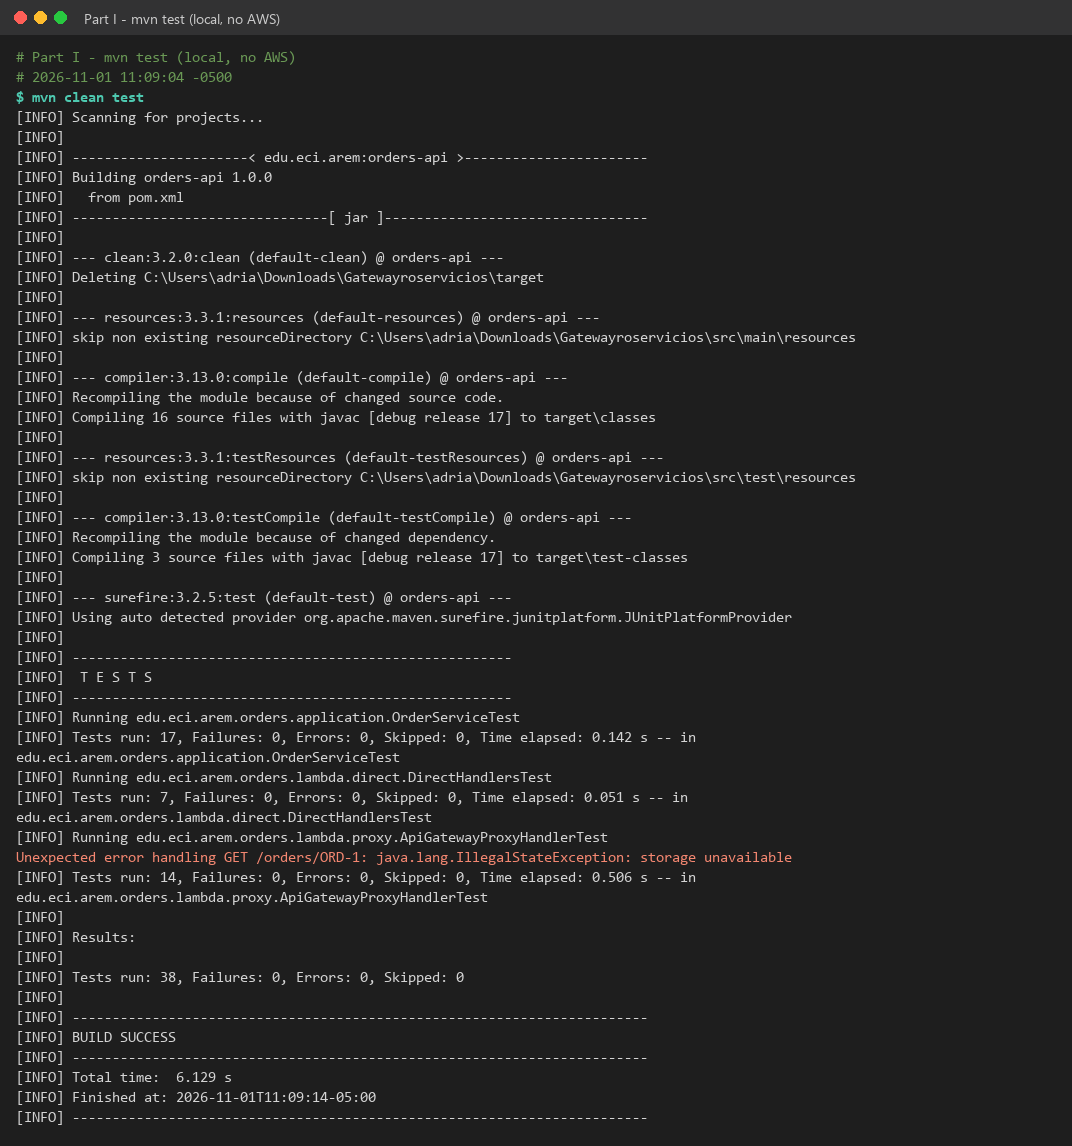
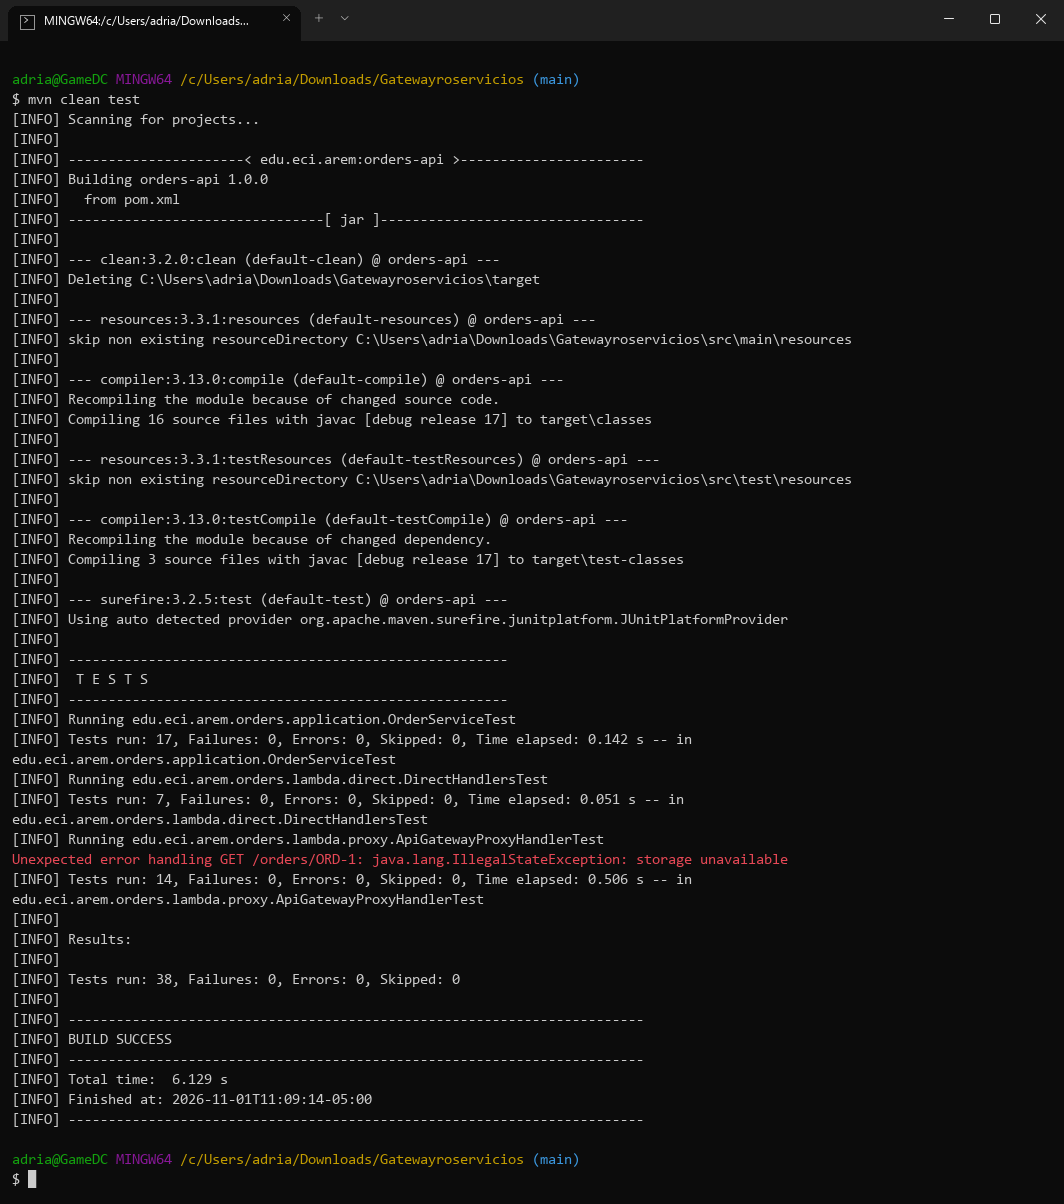
Render evidence screenshots in Windows Terminal style

diff --git a/evidence/tools/render.py b/evidence/tools/render.py
@@ -1,22 +1,32 @@
-"""Renders evidence/*.txt (real command output captured by capture.sh) as terminal-style PNG screenshots.
+"""Renders evidence/*.txt (real command output captured by capture.sh on Windows / Git Bash) as PNG
+screenshots styled like the Windows Terminal window where they were run.
 
 Usage: python evidence/tools/render.py [name ...]     (no names = every .txt in evidence/)
 Requires Pillow.
 """
 import os
+import socket
+import getpass
 import sys
 import textwrap
 
 from PIL import Image, ImageDraw, ImageFont
 
 ROOT = os.path.abspath(os.path.join(os.path.dirname(__file__), '..'))
-FONT_PATHS = [r'C:\Windows\Fonts\consola.ttf', '/usr/share/fonts/truetype/dejavu/DejaVuSansMono.ttf']
-BOLD_PATHS = [r'C:\Windows\Fonts\consolab.ttf', '/usr/share/fonts/truetype/dejavu/DejaVuSansMono-Bold.ttf']
-UI_PATHS = [r'C:\Windows\Fonts\segoeui.ttf'] + FONT_PATHS
+FONTS = r'C:\Windows\Fonts'
+MONO = [os.path.join(FONTS, 'CascadiaMono.ttf'), os.path.join(FONTS, 'consola.ttf')]
+MONO_BOLD = [os.path.join(FONTS, 'CascadiaMono.ttf'), os.path.join(FONTS, 'consolab.ttf')]
+UI = [os.path.join(FONTS, 'segoeui.ttf')]
+ICONS = [os.path.join(FONTS, 'SegoeIcons.ttf'), os.path.join(FONTS, 'segmdl2.ttf')]
 
-SIZE, LINE, PAD, COLS = 15, 20, 16, 130
-BG, BAR, FG = (30, 30, 30), (50, 50, 51), (212, 212, 212)
-CMD, META, STATUS, ERR = (78, 201, 176), (106, 153, 85), (220, 220, 170), (244, 135, 113)
+SIZE, LINE, PAD, COLS = 15, 20, 12, 130
+BG, TITLEBAR, TAB, FG = (12, 12, 12), (32, 32, 32), (12, 12, 12), (204, 204, 204)
+GREEN, PURPLE, YELLOW, CYAN = (19, 161, 14), (136, 23, 152), (193, 156, 0), (58, 150, 221)
+ERR, STATUS = (231, 72, 86), (249, 241, 165)
+
+USER = getpass.getuser()
+HOST = socket.gethostname()
+CWD = '/c/Users/' + USER + '/Downloads/Gatewayroservicios'
 
 
 def font(paths, size):
@@ -26,46 +36,63 @@ def font(paths, size):
     return ImageFont.load_default()
 
 
-def color_of(line):
-    if line.startswith('$ '):
-        return CMD, True
-    if line.startswith('# '):
-        return META, False
-    if line.startswith(('HTTP/', '< HTTP/')):
-        return STATUS, True
-    if 'ERROR' in line or 'Exception' in line or 'FAIL' in line:
-        return ERR, False
-    return FG, False
+def build_rows(raw):
+    """Turns the captured text into colored terminal rows (list of segments per row)."""
+    rows = []
+    for line in raw:
+        if line.startswith('# '):          # capture metadata (title/date): kept in the .txt only
+            continue
+        if line.startswith('$ '):          # Git Bash prompt + command
+            rows.append([])
+            rows.append([(USER + '@' + HOST + ' ', GREEN), ('MINGW64 ', PURPLE), (CWD + ' ', YELLOW), ('(main)', CYAN)])
+            for i, part in enumerate(textwrap.wrap(line[2:], COLS - 2) or ['']):
+                rows.append([('$ ' if i == 0 else '  ', FG), (part, FG)])
+            continue
+        color = FG
+        if line.startswith(('HTTP/', '< HTTP/')):
+            color = STATUS
+        elif '[ERROR]' in line or 'Exception:' in line or 'FAILURE' in line:
+            color = ERR
+        for part in textwrap.wrap(line, COLS, replace_whitespace=False, drop_whitespace=False) or ['']:
+            rows.append([(part, color)])
+    rows.append([])
+    rows.append([(USER + '@' + HOST + ' ', GREEN), ('MINGW64 ', PURPLE), (CWD + ' ', YELLOW), ('(main)', CYAN)])
+    rows.append([('$ ', FG), ('\u2588', FG)])
+    return rows
 
 
 def render(name):
     with open(os.path.join(ROOT, name + '.txt'), encoding='utf-8', errors='replace') as f:
         raw = f.read().rstrip('\n').expandtabs(4).split('\n')
-    title = raw[0][2:] if raw and raw[0].startswith('# ') else name
 
-    rows = []  # (text, color, bold)
-    for line in raw:
-        color, bold = color_of(line)
-        for part in textwrap.wrap(line, COLS, replace_whitespace=False, drop_whitespace=False) or ['']:
-            rows.append((part, color, bold))
-
-    regular, bold_font, ui = font(FONT_PATHS, SIZE), font(BOLD_PATHS, SIZE), font(UI_PATHS, 14)
-    char_w = regular.getlength('M')
+    mono, ui, icons = font(MONO, SIZE), font(UI, 12), font(ICONS, 10)
+    rows = build_rows(raw)
+    char_w = mono.getlength('M')
     width = int(PAD * 2 + char_w * COLS)
-    bar_h = 34
+    bar_h = 40
     height = bar_h + PAD * 2 + LINE * len(rows)
 
     img = Image.new('RGB', (width, height), BG)
-    draw = ImageDraw.Draw(img)
-    draw.rectangle([0, 0, width, bar_h], fill=BAR)
-    for i, c in enumerate([(255, 95, 87), (254, 188, 46), (40, 200, 64)]):
-        x = 14 + i * 20
-        draw.ellipse([x, 11, x + 12, 23], fill=c)
-    draw.text((84, 8), title, fill=(204, 204, 204), font=ui)
+    d = ImageDraw.Draw(img)
+
+    # Windows Terminal title bar with one active tab and the caption buttons.
+    d.rectangle([0, 0, width, bar_h], fill=TITLEBAR)
+    d.rounded_rectangle([8, 6, 300, bar_h + 6], radius=8, fill=TAB)
+    d.rectangle([20, 15, 34, 29], outline=(150, 150, 150))            # tab icon
+    d.text((26, 14), '>', fill=(220, 220, 220), font=font(MONO, 11), anchor='ma')
+    d.text((44, 12), 'MINGW64:' + CWD[:24] + '...', fill=(255, 255, 255), font=ui)
+    d.text((282, 13), '\uE711', fill=(200, 200, 200), font=icons)     # tab close
+    d.text((314, 13), '\uE710', fill=(200, 200, 200), font=icons)     # new tab
+    d.text((340, 13), '\uE70D', fill=(200, 200, 200), font=icons)     # dropdown
+    for i, glyph in enumerate(['\uE921', '\uE922', '\uE8BB']):       # minimize, maximize, close
+        d.text((width - 138 + i * 46 + 18, 14), glyph, fill=(230, 230, 230), font=icons)
 
     y = bar_h + PAD
-    for text, color, bold in rows:
-        draw.text((PAD, y), text, fill=color, font=bold_font if bold else regular)
+    for segments in rows:
+        x = PAD
+        for text, color in segments:
+            d.text((x, y), text, fill=color, font=mono)
+            x += mono.getlength(text)
         y += LINE
 
     out = os.path.join(ROOT, 'screenshots', name + '.png')
